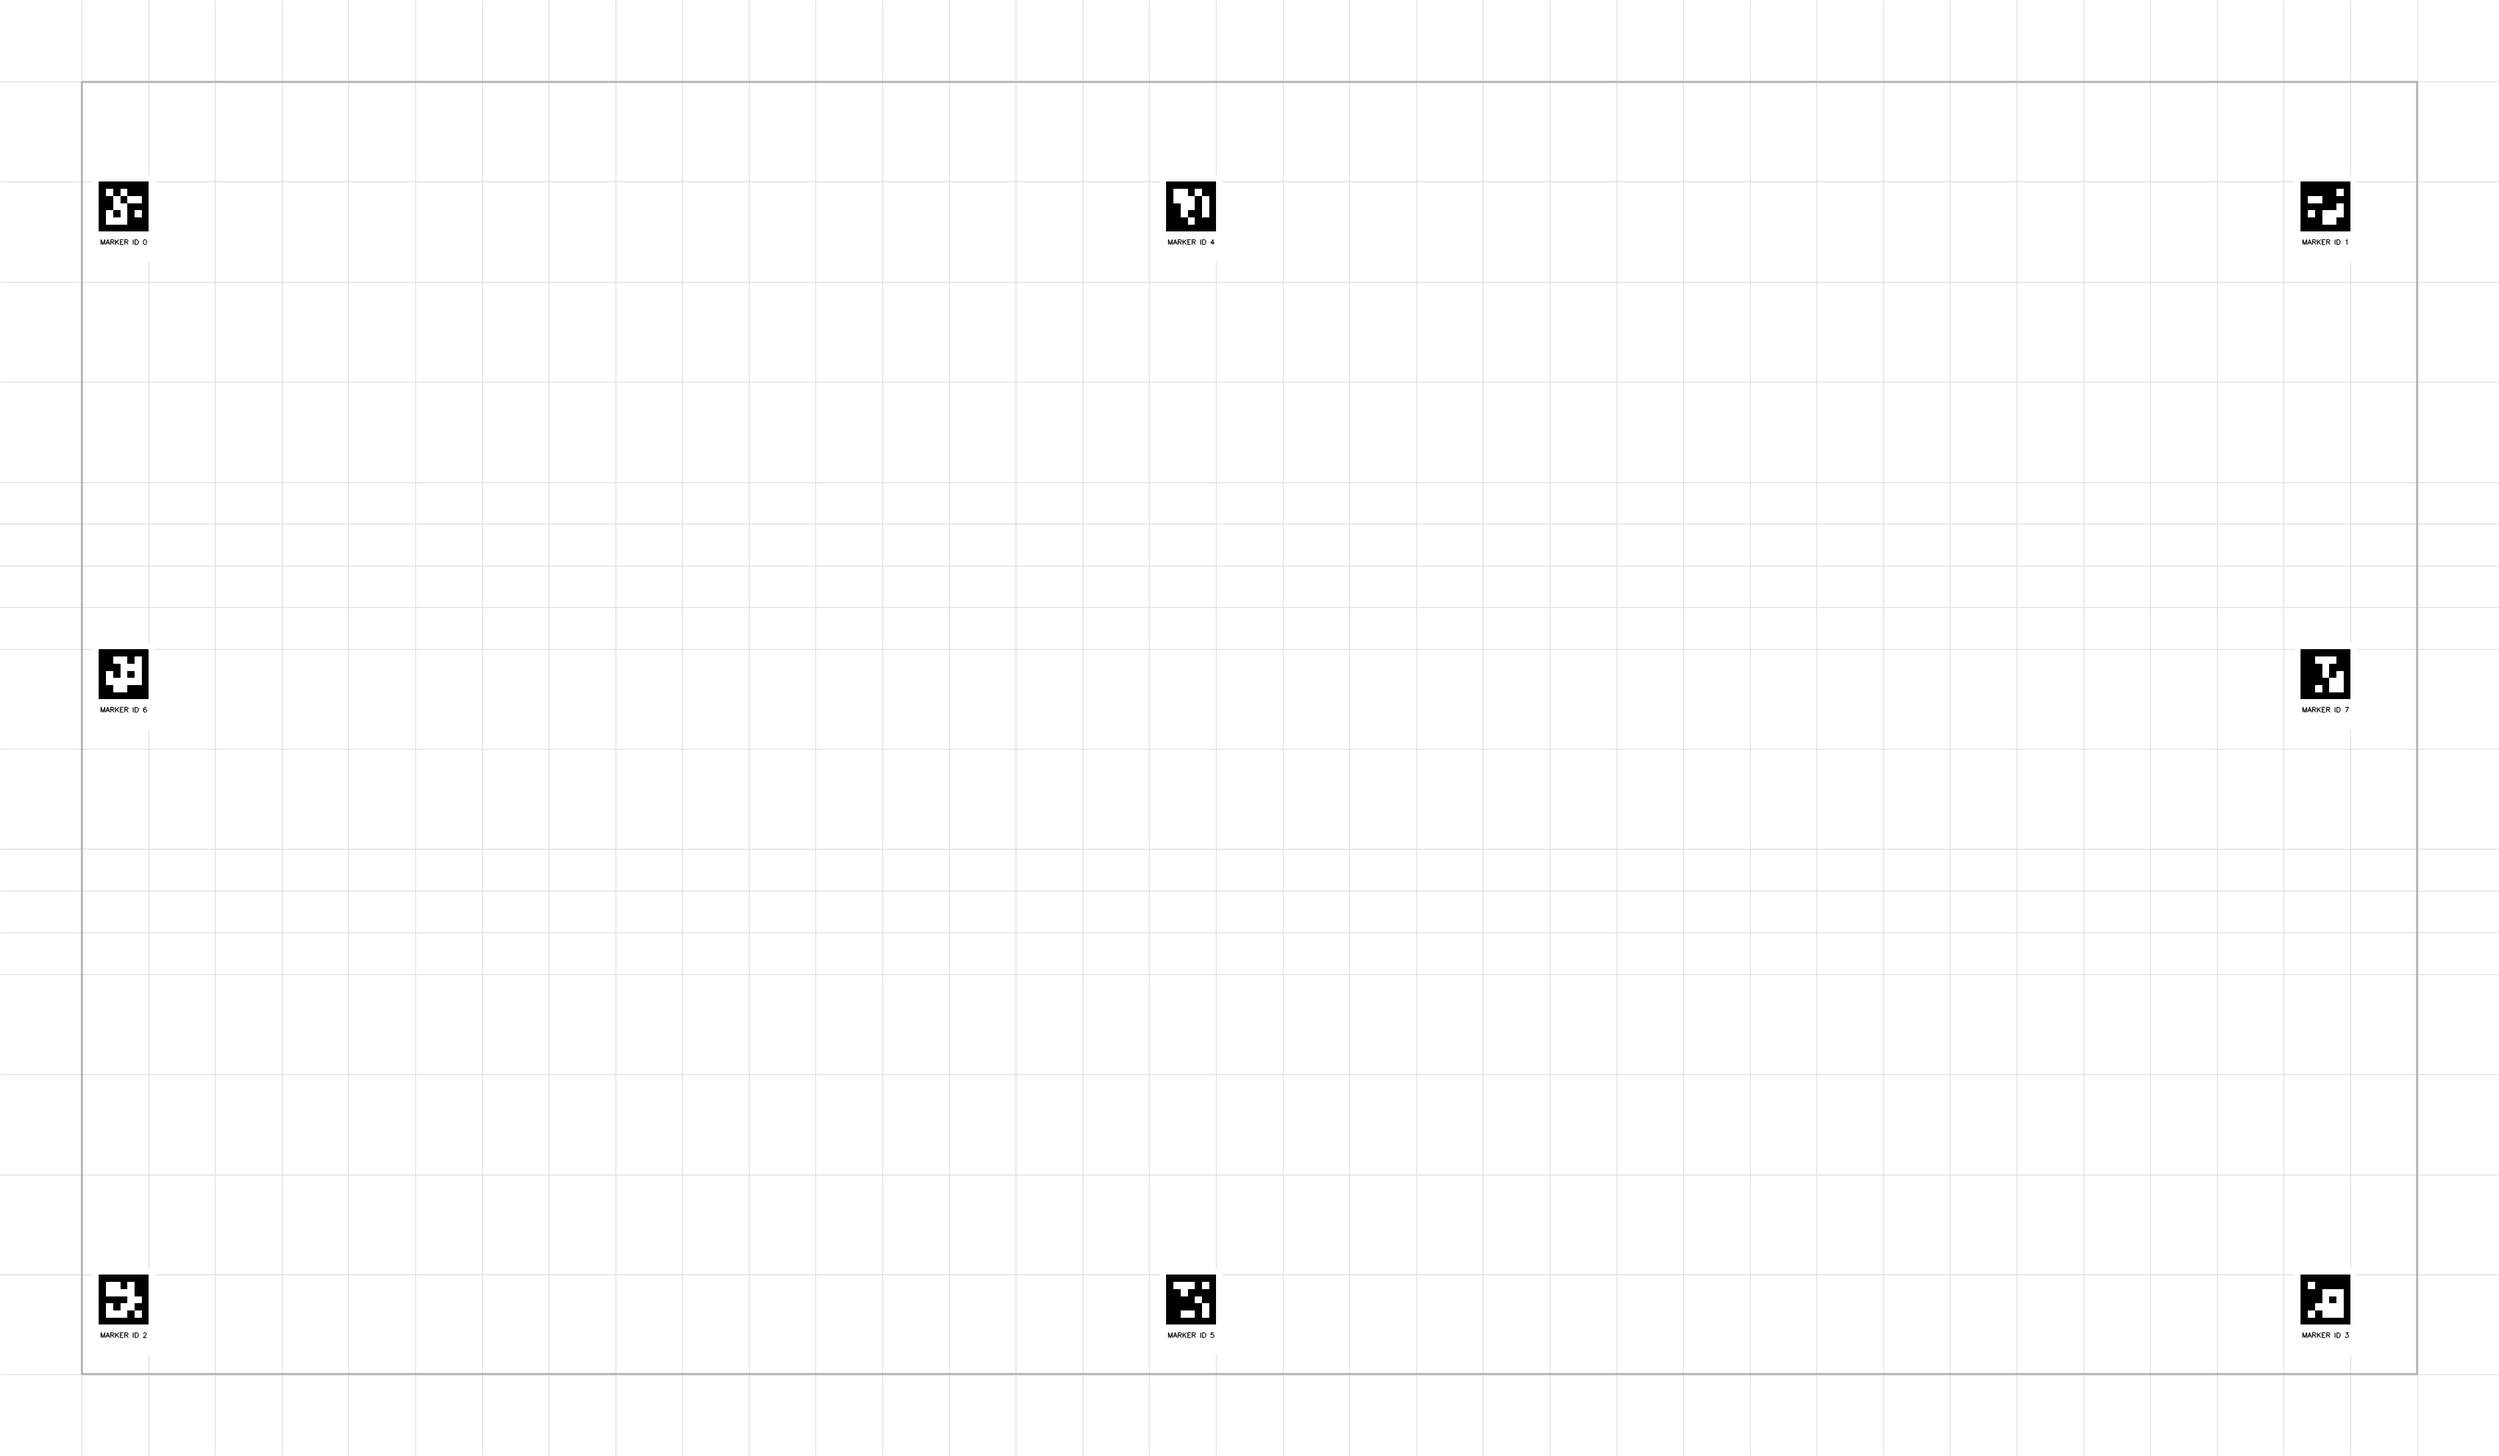
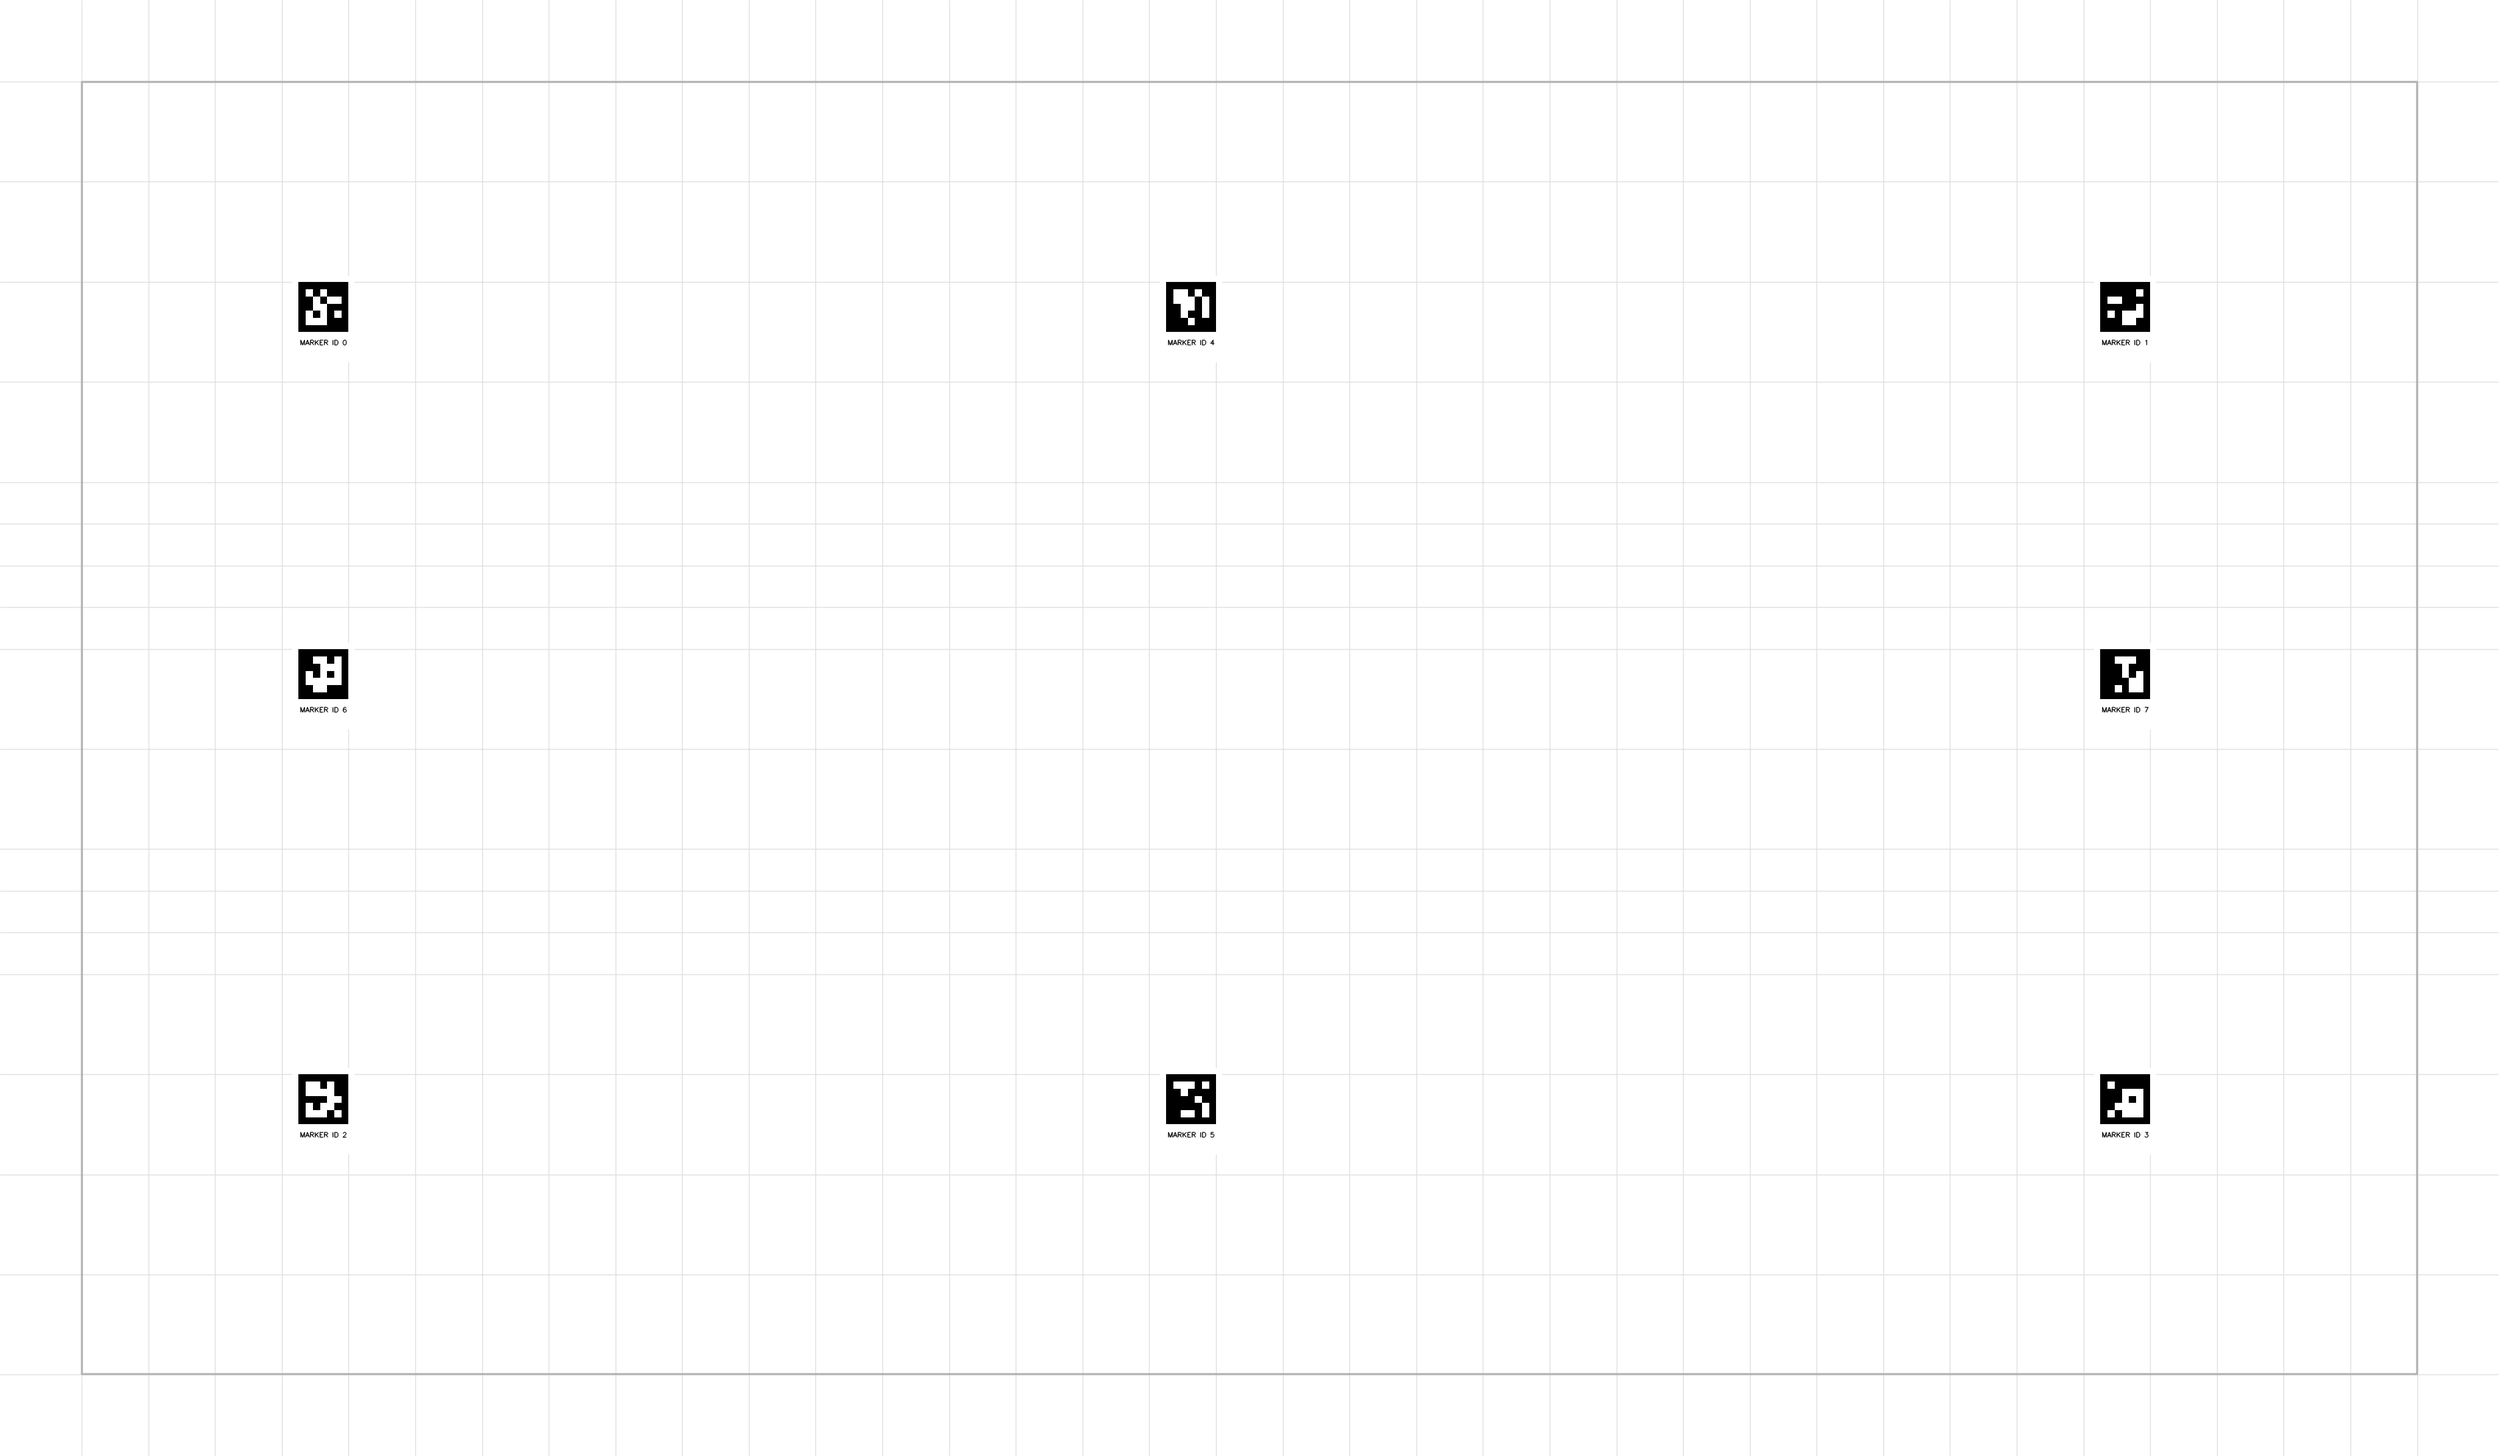
修改桌面底图markers位置

diff --git a/aruco_grid_twin.py b/aruco_grid_twin.py
@@ -410,22 +410,32 @@ def make_ground(args):
     width_mm = x_slices[-1]
     height_mm = y_slices[-1]
     
-    # 内缩边界物理坐标
-    inner_x_min = x_slices[1]
-    inner_x_max = x_slices[-2]
-    inner_y_min = y_slices[1]
-    inner_y_max = y_slices[-2]
+    # === 修改核心：判断如果是桌面级系统，则向内部移动两个格子 ===
+    if args.system_name.lower() == "desktop":
+        # 确保网格大小足够容纳两圈的内缩
+        if cols < 5 or rows < 5:
+            raise ValueError("Grid shape is too small for a 2-cell inward offset desktop layout.")
+        
+        print(f"[{args.system_name.upper()}] Applying 2-cell inward offset for calibration markers.")
+        inner_x_min = x_slices[4]
+        inner_x_max = x_slices[-5]
+        inner_y_min = y_slices[2]
+        inner_y_max = y_slices[-4]
+    else:
+        # 其它系统（如 ground）保持原有的内缩 1 个格子
+        inner_x_min = x_slices[1]
+        inner_x_max = x_slices[-2]
+        inner_y_min = y_slices[1]
+        inner_y_max = y_slices[-2]
 
     if inner_x_max <= inner_x_min or inner_y_max <= inner_y_min:
-        raise ValueError("Grid shape is too small to complete 1-cell inward offset calibration layout.")
+        raise ValueError("Grid shape is too small to complete calibration layout calculation.")
 
     mid_col_idx = cols // 2
     mid_row_idx = rows // 2
     grid_mid_x = x_slices[mid_col_idx]
     grid_mid_y = y_slices[mid_row_idx]
 
-    # 修改点：由于原点变为左上角，物理坐标系的 Y 映射概念发生了变化：
-    # inner_y_min 代表物理顶部的内缩线 (贴近左上角)，inner_y_max 代表物理底部的内缩线
     placements = [
         {"id": args.start_id + 0, "name": "origin", "anchor_mm": [inner_x_min, inner_y_min, 0.0], "anchor_corner": args.anchor_corner, "yaw_deg": 0.0},
         {"id": args.start_id + 1, "name": "x_axis", "anchor_mm": [inner_x_max, inner_y_min, 0.0], "anchor_corner": args.anchor_corner, "yaw_deg": 0.0},
